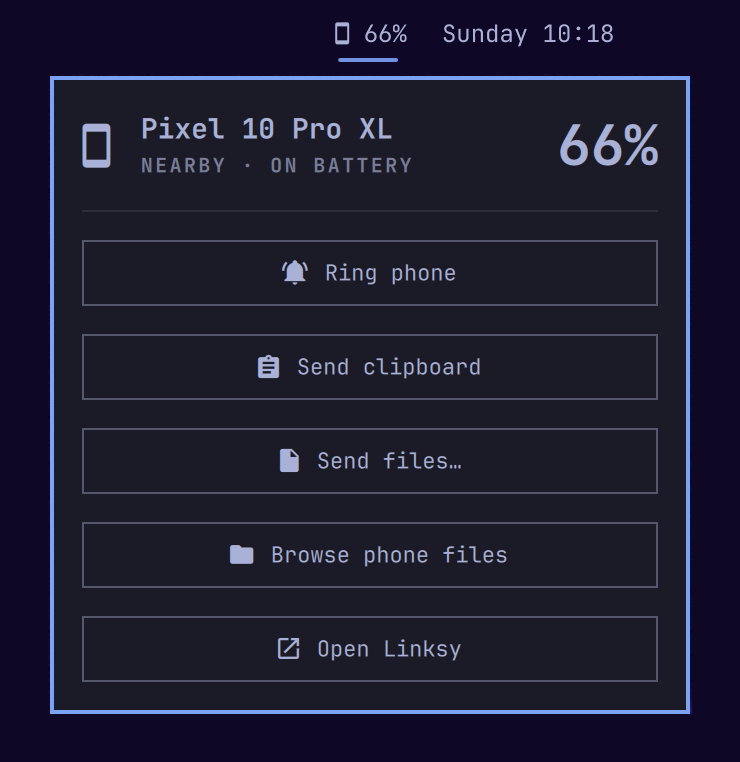
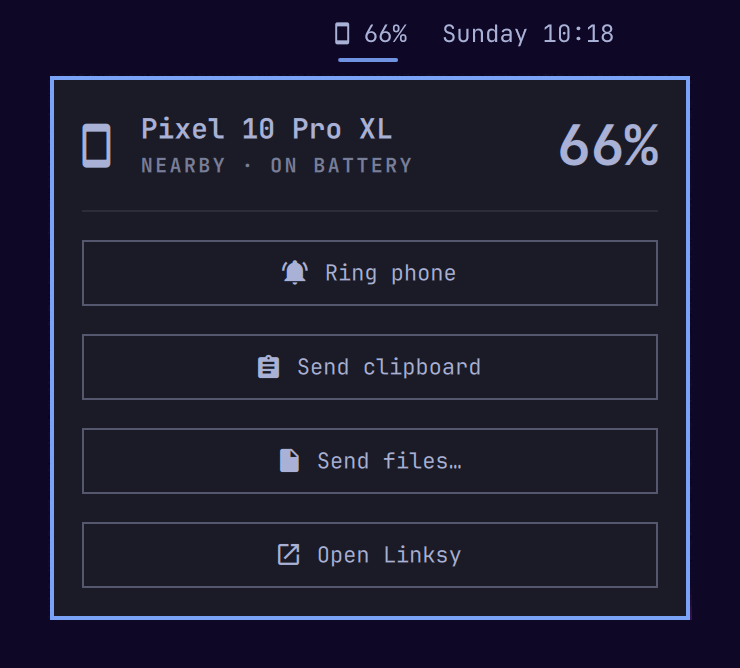
Remove "Browse phone files" from the popup
Opening a phone's files makes linksyd run `gio mount` with the WebDAV URI,
access token included, as a process argument (linksyd/src/dav.rs), where
other local accounts can read it. The widget no longer offers it; the
button can come back once Linksy passes the token another way.

diff --git a/LinksyWidget.qml b/LinksyWidget.qml
@@ -370,11 +370,6 @@ Panel {
           onClicked: root.act("'" + root.actions + "' send '" + root.phoneId + "'")
         }
         ActionButton {
-          iconText: ""
-          text: "Browse phone files"
-          onClicked: root.act("'" + root.actions + "' files '" + root.phoneId + "'")
-        }
-        ActionButton {
           visible: true
           iconText: ""
           text: "Open Linksy"

diff --git a/README.md b/README.md
@@ -9,7 +9,6 @@ While your paired phone is on the same network, the bar shows it with its batter
 - **Ring phone**, to find it
 - **Send clipboard**, to send this computer's copied text to the phone
 - **Send files…**
-- **Browse phone files**
 - **Open Linksy**
 
 Right-click opens Linksy. The widget hides when no paired phone is around, and shows transfer progress (` 42%`) while files are moving.
